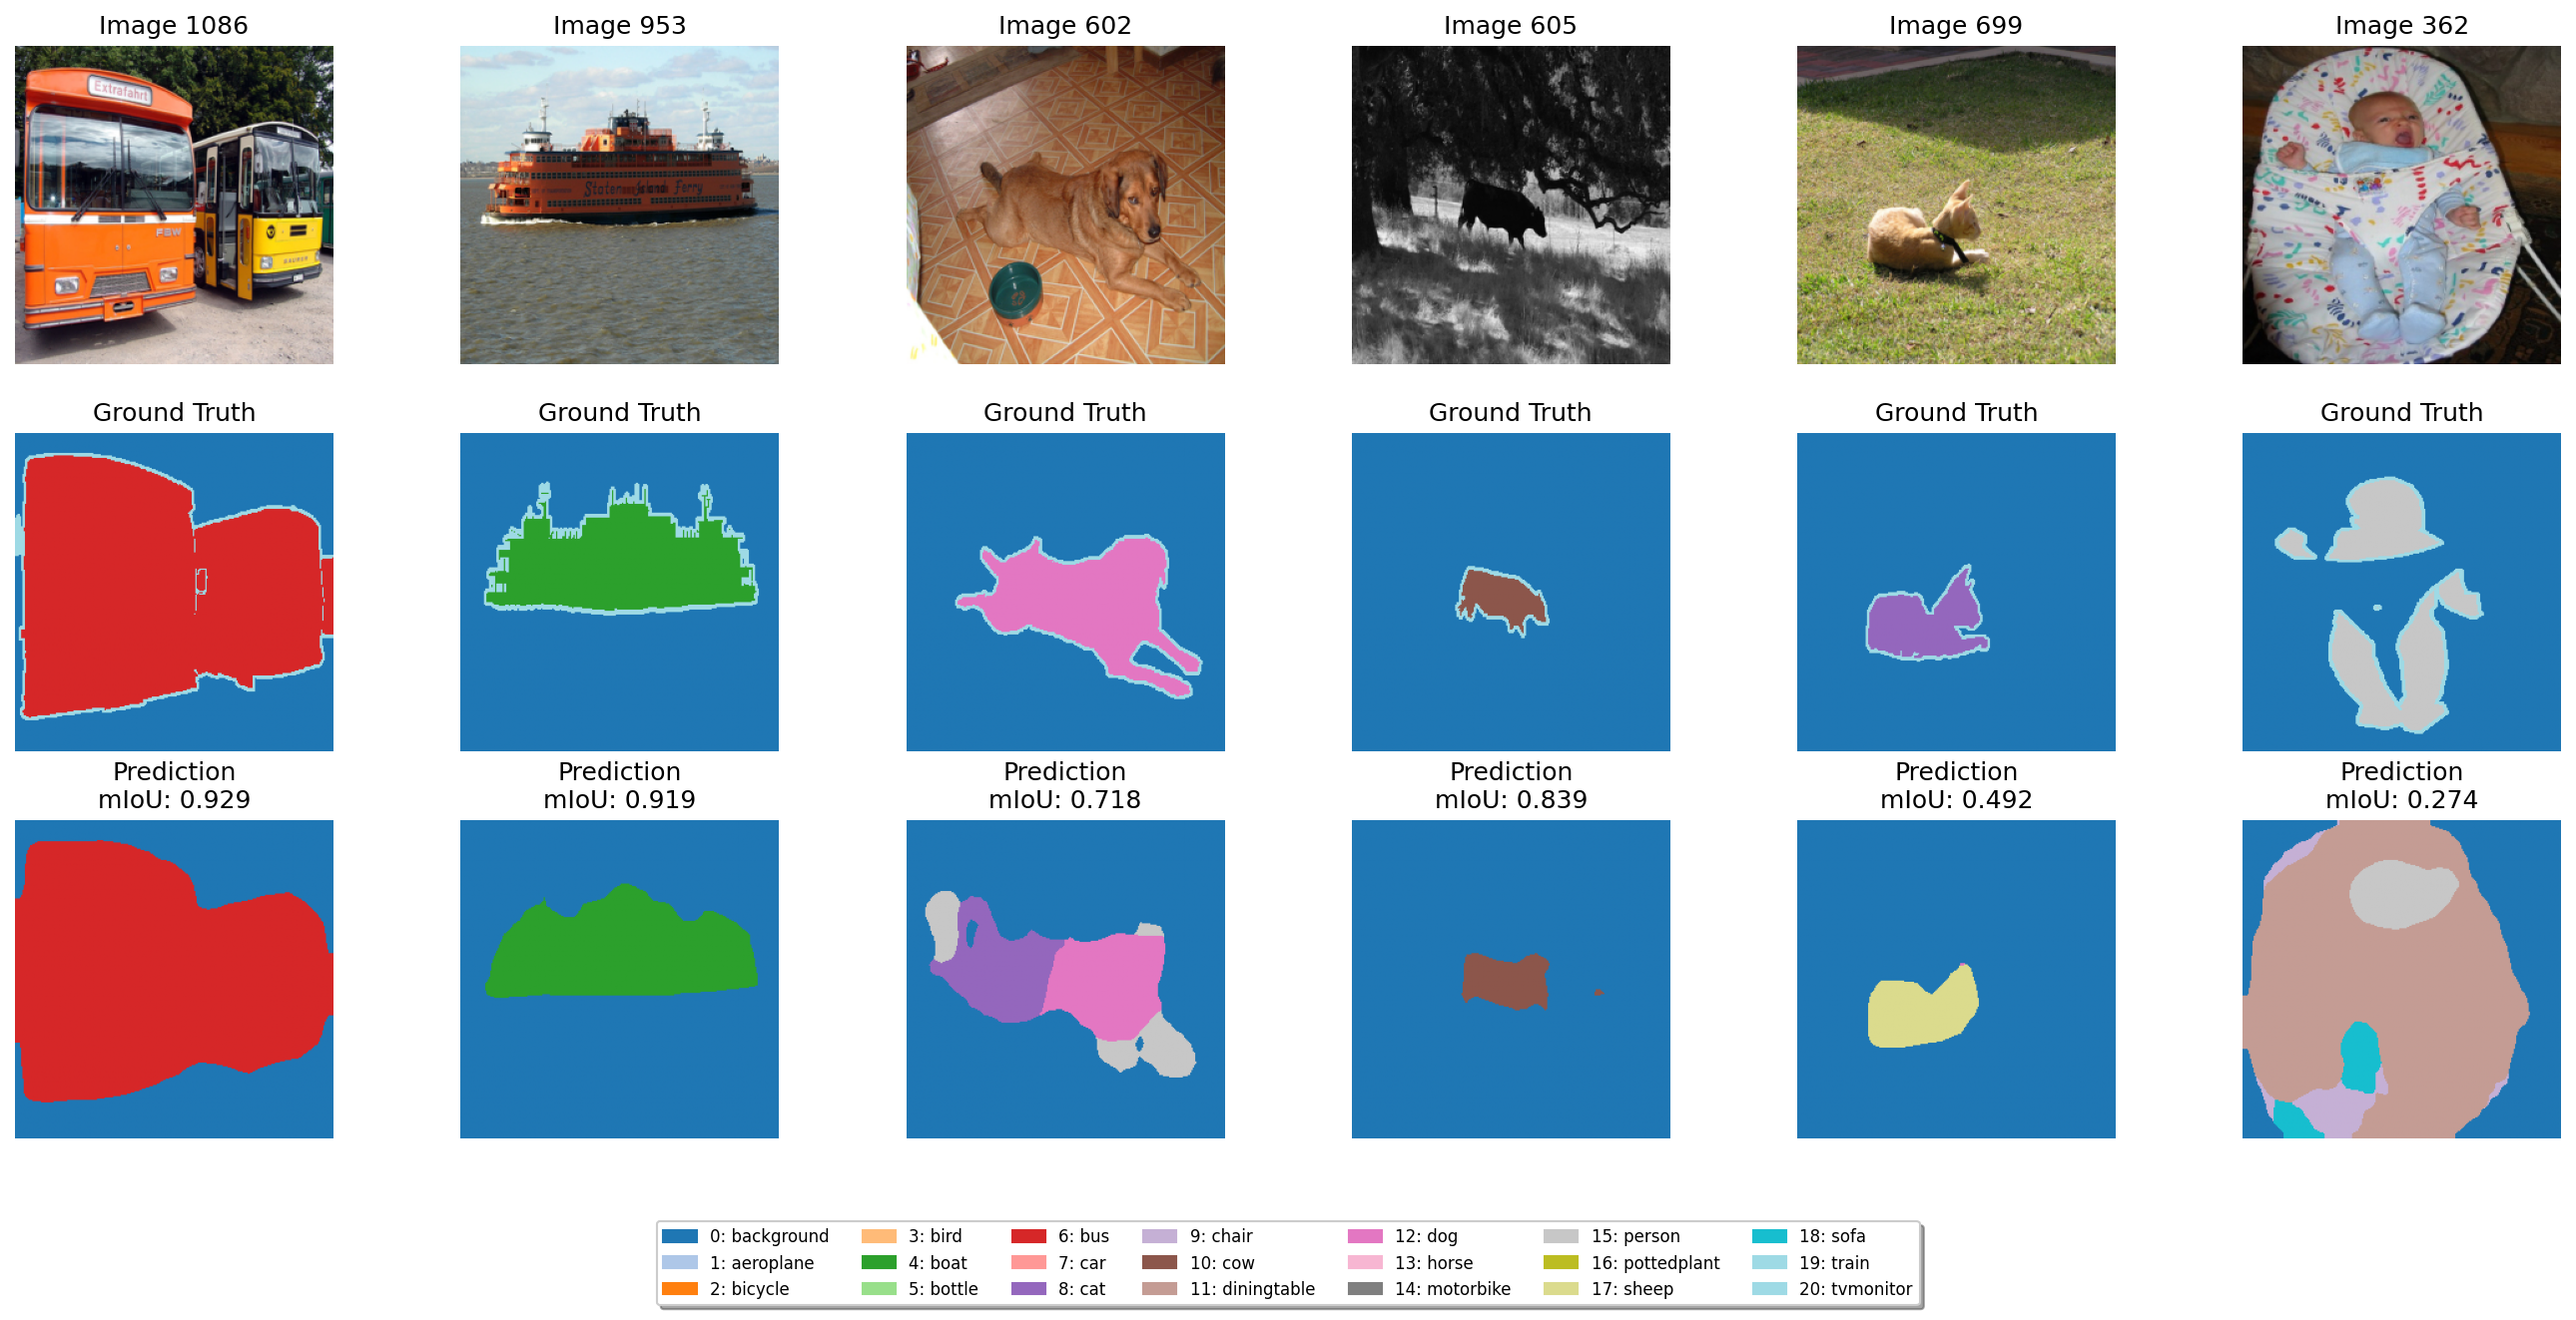
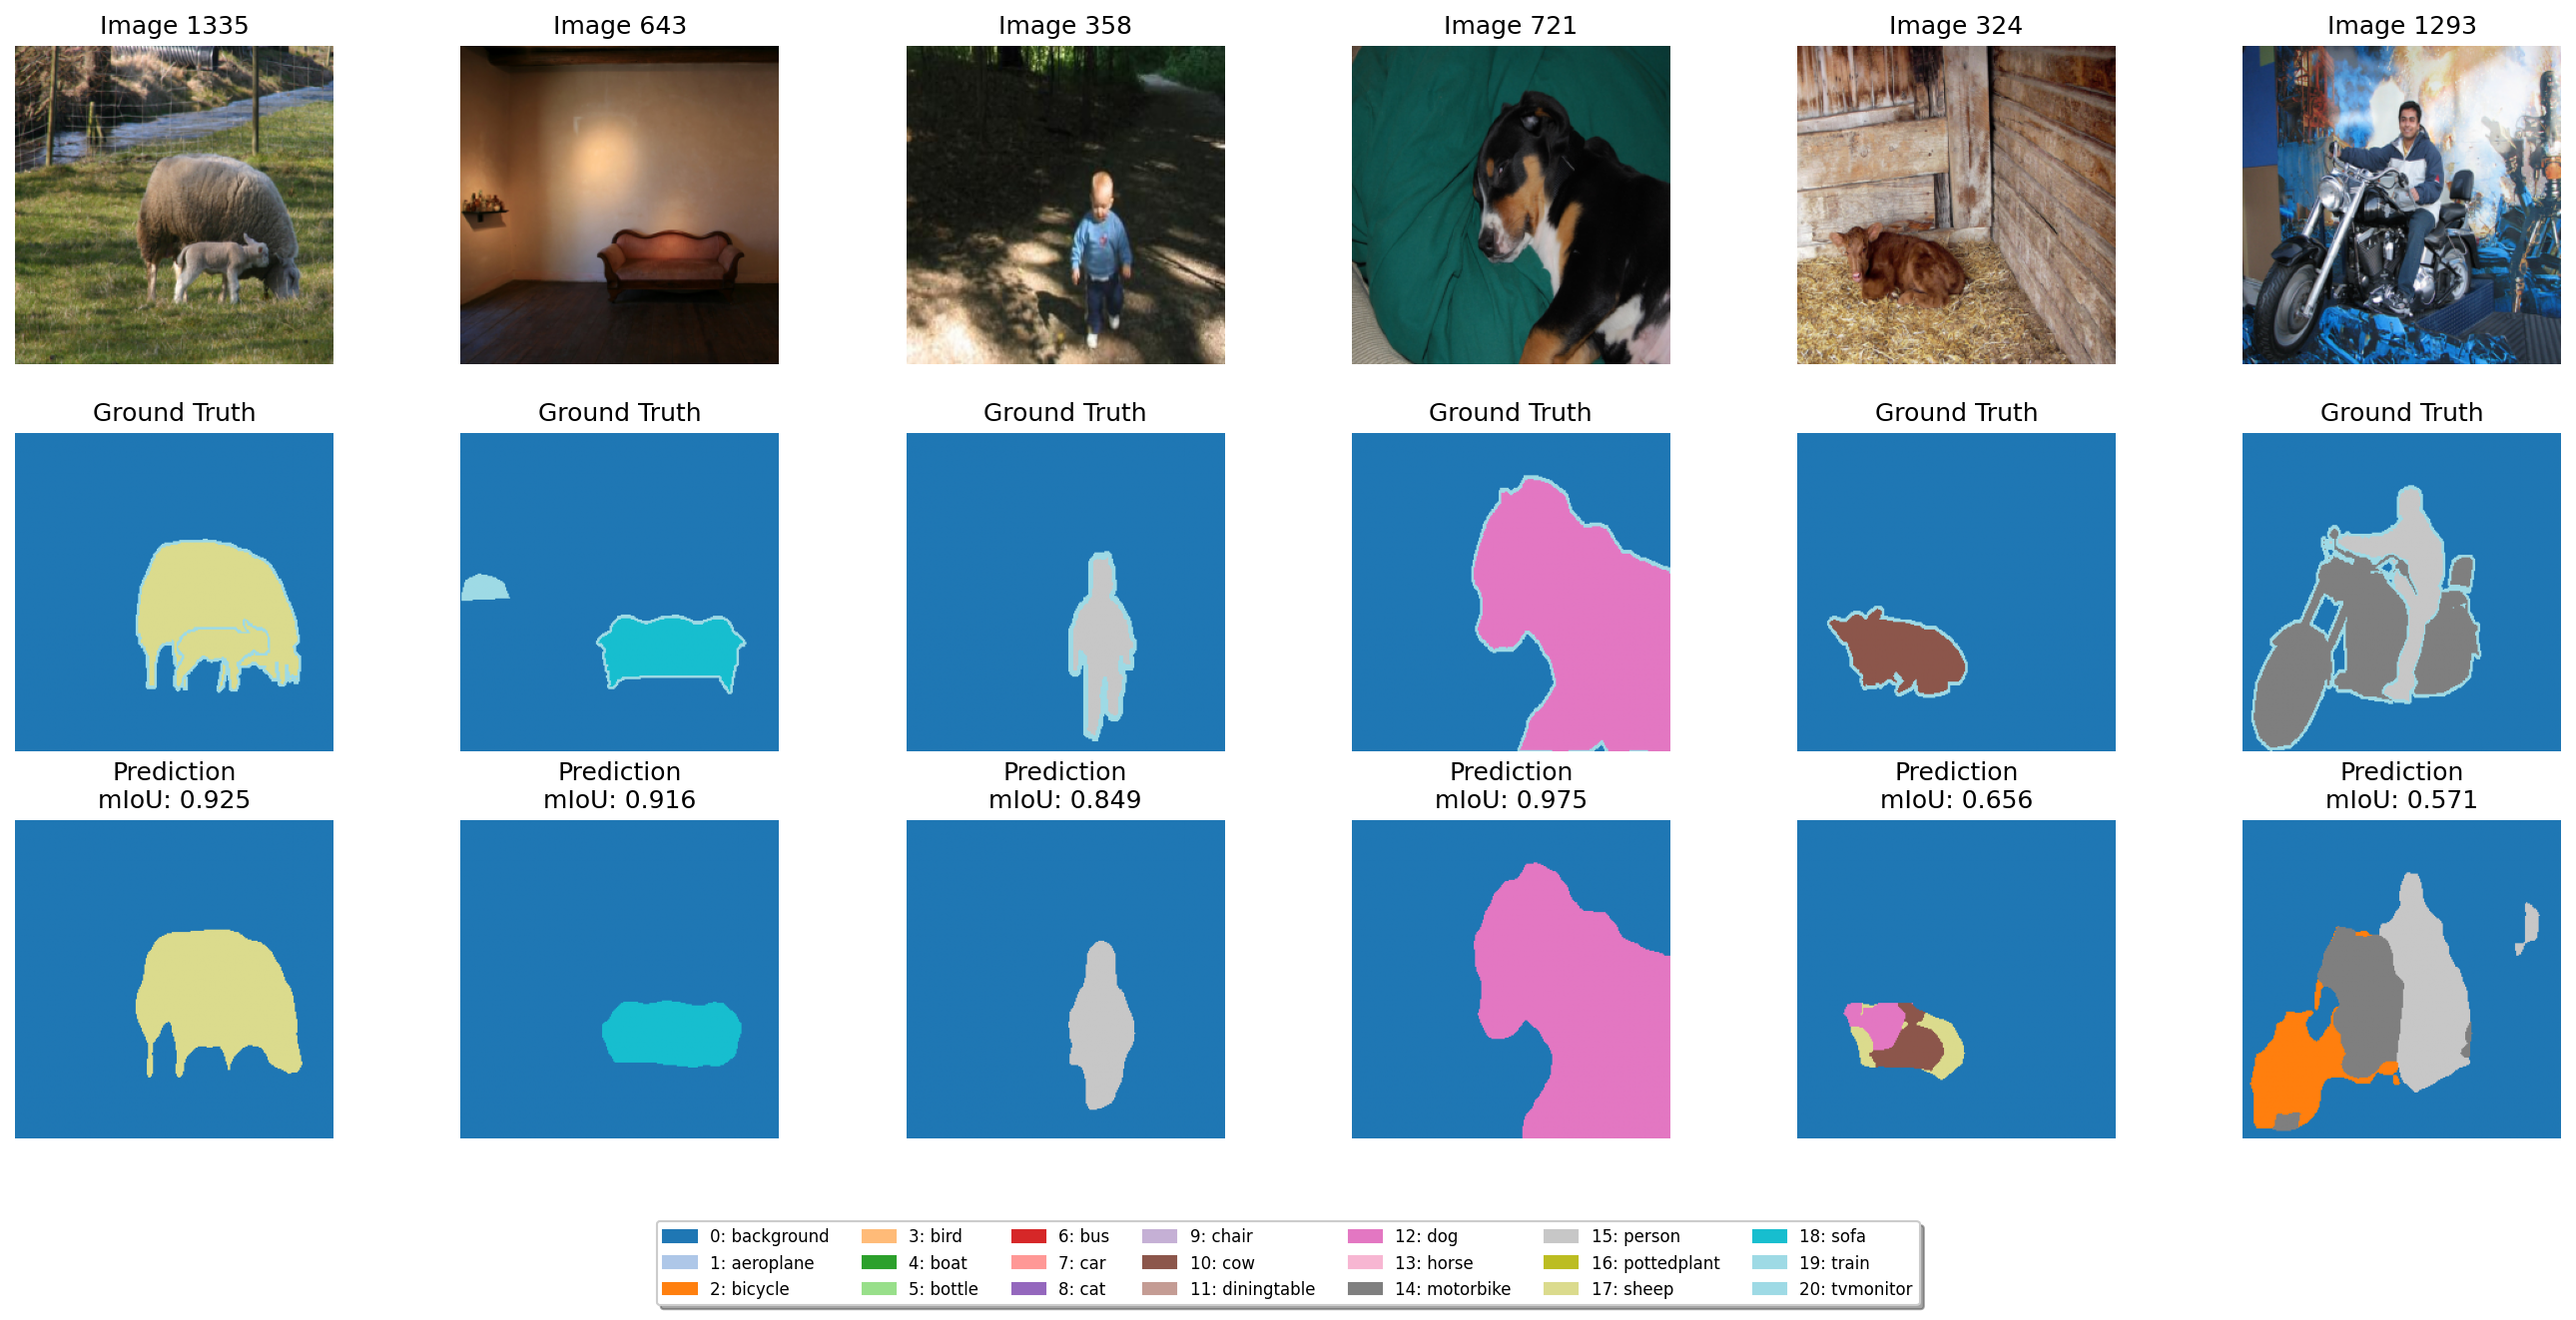
trained a kd model and updated test.py to work with kd

diff --git a/Lab 3/knowledge_distillation.py b/Lab 3/knowledge_distillation.py
@@ -74,8 +74,9 @@ class DistillationLoss(nn.Module):
         student_soft = F.log_softmax(student_logits / self.temperature, dim=1)
         teacher_soft = F.softmax(teacher_logits / self.temperature, dim=1)
         
-        # KL divergence between teacher and student (equivalent to cross-entropy)
-        kd_loss = F.kl_div(student_soft, teacher_soft, reduction='batchmean')
+        # KL divergence between teacher and student
+        # Use 'mean' reduction for spatial dimensions to match CE loss scale
+        kd_loss = F.kl_div(student_soft, teacher_soft, reduction='mean')
         
         # Scale by T² to maintain gradient magnitude
         kd_loss = kd_loss * (self.temperature ** 2)
@@ -323,8 +324,8 @@ def main():
     PATIENCE = 10
     
     # Knowledge distillation parameters
-    ALPHA = 0.5  # Weight for ground truth loss
-    BETA = 0.5   # Weight for distillation loss
+    ALPHA = 0.7  # Weight for ground truth loss (increased to prioritize ground truth)
+    BETA = 0.3   # Weight for distillation loss (reduced to prevent overwhelming)
     TEMPERATURE = 4.0  # Temperature for knowledge distillation
     
     # Paths
@@ -433,6 +434,14 @@ def main():
     
     best_miou = 0.0
     epochs_without_improvement = 0
+    time_start = time.time()
+    
+    def sec_to_hms(s):
+        s = int(max(0, s))
+        h = s // 3600
+        m = (s % 3600) // 60
+        sec = s % 60
+        return f"{h:02d}:{m:02d}:{sec:02d}"
     
     for epoch in range(1, NUM_EPOCHS + 1):
         epoch_start = time.time()
@@ -462,6 +471,12 @@ def main():
         print(f"  Val mIoU:     {val_results['miou']:.4f}")
         print(f"  Time:         {epoch_time:.1f}s")
         print(f"  LR:           {optimizer.param_groups[0]['lr']:.2e}")
+        
+        # Timing information
+        elapsed = time.time() - time_start
+        avg_per_epoch = elapsed / epoch
+        remaining = avg_per_epoch * (NUM_EPOCHS - epoch)
+        print(f"  Elapsed: {sec_to_hms(elapsed)} | Left: {sec_to_hms(remaining)} | Per Epoch: {sec_to_hms(avg_per_epoch)}")
         
         # Save best model
         if val_results['miou'] > best_miou:

diff --git a/Lab 3/test.py b/Lab 3/test.py
@@ -96,7 +96,21 @@ def load_trained_model(checkpoint_path, num_classes=21, device='cpu'):
     
     # Load checkpoint (weights_only=False needed for PyTorch 2.6+)
     checkpoint = torch.load(checkpoint_path, map_location=device, weights_only=False)
-    model.load_state_dict(checkpoint['model_state_dict'])
+    
+    # Handle different checkpoint formats (regular training vs knowledge distillation)
+    if 'student_state_dict' in checkpoint:
+        # Knowledge distillation checkpoint
+        model.load_state_dict(checkpoint['student_state_dict'])
+        val_loss_key = 'val_total_loss'
+    elif 'model_state_dict' in checkpoint:
+        # Regular training checkpoint
+        model.load_state_dict(checkpoint['model_state_dict'])
+        val_loss_key = 'val_loss'
+    else:
+        # Direct state dict
+        model.load_state_dict(checkpoint)
+        val_loss_key = None
+    
     model = model.to(device)
     model.eval()
     
@@ -104,7 +118,7 @@ def load_trained_model(checkpoint_path, num_classes=21, device='cpu'):
     checkpoint_info = {
         'epoch': checkpoint.get('epoch', 'unknown'),
         'val_miou': checkpoint.get('val_miou', 'unknown'),
-        'val_loss': checkpoint.get('val_loss', 'unknown')
+        'val_loss': checkpoint.get(val_loss_key, 'unknown') if val_loss_key else 'unknown'
     }
     
     print(f"✓ Model loaded successfully!")
